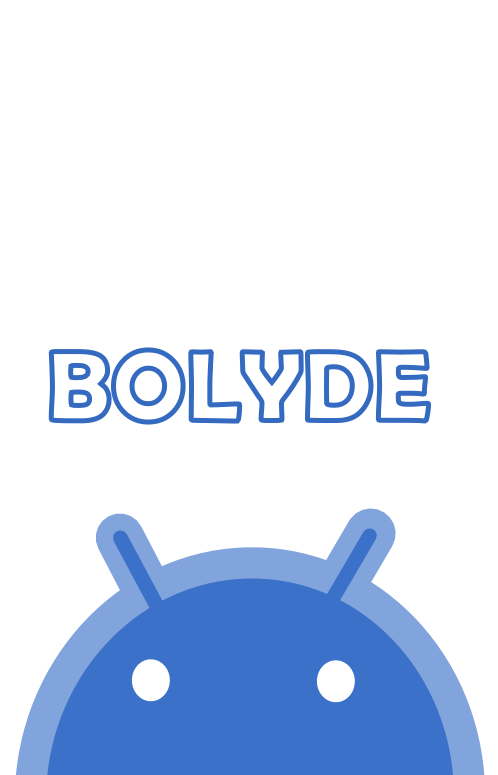
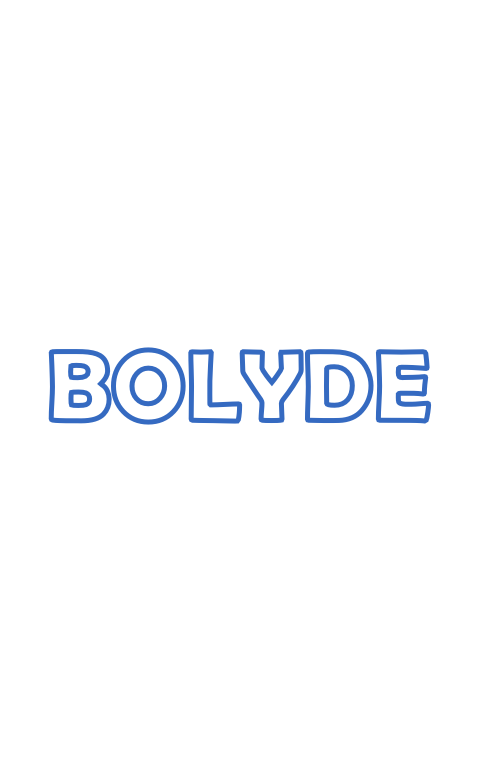
Animated splash screen

Changed region(s): [[0.0301, 0.6503, 0.994, 1.0]]

diff --git a/src/de/interoberlin/bolyde/SplashActivity.java b/src/de/interoberlin/bolyde/SplashActivity.java
@@ -154,14 +154,12 @@ public class SplashActivity extends Activity
 
 		long millisBefore = 0;
 		long millisAfter = 0;
-		long millisFrame = (long) (1000 / 10);
+		long millisFrame = (long) (1000 / panel.getFpsDesired());
 
-		boolean running = false;
-		
+		boolean running = true;
+
 		while (running)
 		{
-		    // System.out.println("UPDATE");
-
 		    millisBefore = System.currentTimeMillis();
 
 		    synchronized (svg)
@@ -172,29 +170,34 @@ public class SplashActivity extends Activity
 			    {
 				long seconds = System.currentTimeMillis() / 1000;
 
+				int Z_INDEX_WEIGHT = 10;
+				int AMPLITUTDE = 5;
+				
 				float x = 0;
-				float y = ((seconds + e.getzIndex()) % svg.getMaxZindex()) * 5;
+//				float y = ((seconds + e.getzIndex()) % svg.getMaxZindex()) * 5;
+				float y = (float) Math.sin((seconds  + (e.getzIndex() * Z_INDEX_WEIGHT)) % 360) * AMPLITUTDE;
 
 				e.setAnimationTransform(new SVGTransformTranslate(x, y));
 			    }
 			}
 
 			millisAfter = System.currentTimeMillis();
-
-			// P A U S E
-
-			if (millisAfter - millisBefore < millisFrame)
-			{
-			    try
-			    {
-				Thread.sleep(millisFrame - (millisAfter - millisBefore));
-			    } catch (InterruptedException e)
-			    {
-				e.printStackTrace();
-			    }
-			}
-			millisAfter = System.currentTimeMillis();
 		    }
+
+		    // P A U S E
+
+		    if (millisAfter - millisBefore < millisFrame)
+		    {
+			try
+			{
+			    Thread.sleep(millisFrame - (millisAfter - millisBefore));
+			} catch (InterruptedException e)
+			{
+			    e.printStackTrace();
+			}
+		    }
+		    millisAfter = System.currentTimeMillis();
+
 		}
 	    }
 	});
